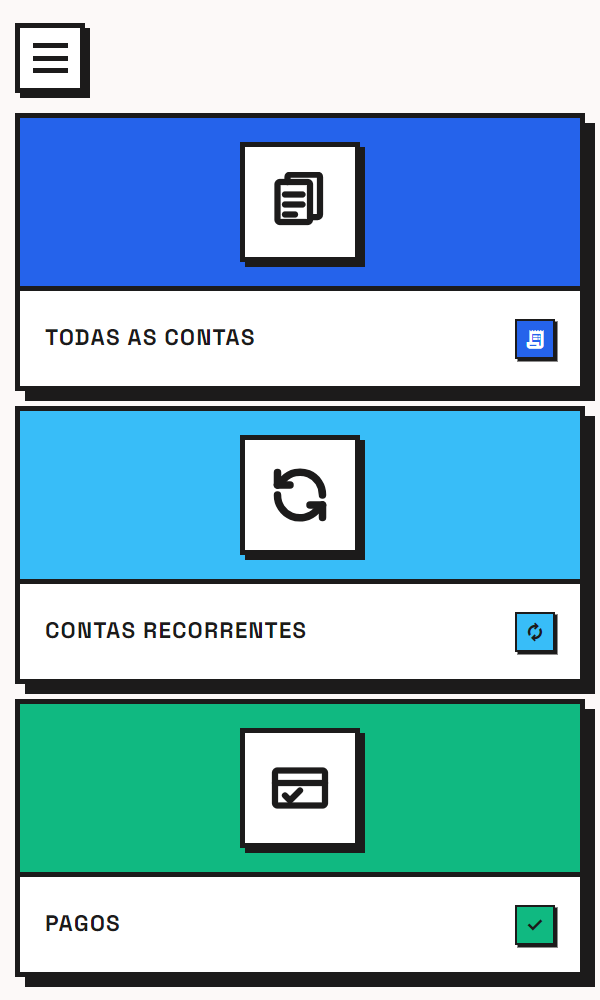
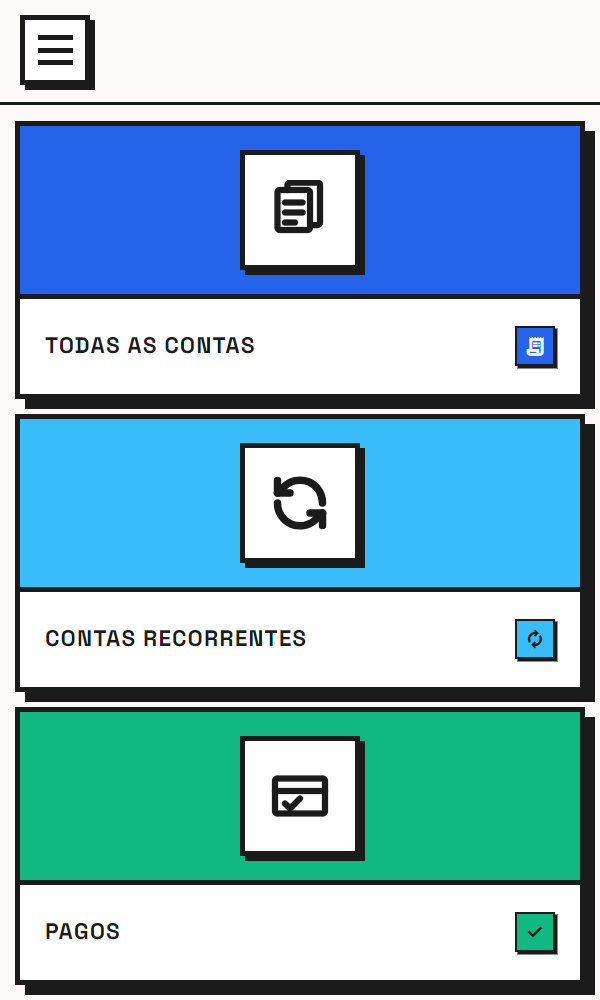
feat: hamburguer fixo no canto superior esquerdo em todas as telas
Abaixo de 1024px a navbar vira uma faixa fixa no topo (84px, cor do fundo,
linha preta embaixo) com o hamburguer sempre a 16px/12px do canto, mesmo
rolando a pagina; o conteudo comeca abaixo da faixa. Padrao de apps/sites e
previsivel para o futuro uso no celular. O calculo de alinhamento saiu do
navbar.ts; teste-hamburguer.js confere posicao, rolagem e conteudo abaixo da
faixa (17 telas x 10 larguras). Versao 1.3.2.

Testes: hamburguer 188/188, smoke 336, CRUD real 70, smoke-real, smoke-dev 83,
smoke-boot, persistencia 11, frontend, layout 54.

Changed region(s): [[0.0, 0.0, 1.0, 1.0], [0.06, 0.62, 0.51, 0.651]]

diff --git a/desktop/teste-hamburguer.js b/desktop/teste-hamburguer.js
@@ -1,7 +1,9 @@
-// Regressao do hamburguer (botao do menu em janela estreita): cada tela abre
-// LARGA e e estreitada passo a passo, como o usuario faz com o mouse. Em toda
-// largura o hamburguer precisa ficar na borda esquerda do conteudo (o painel ou
-// cartao mais a esquerda) e a pagina nao pode ficar mais larga que a janela.
+// Regressao do hamburguer (botao do menu em janela estreita). Decisao 2026-11-13:
+// ele fica SEMPRE no mesmo lugar (canto superior esquerdo), numa faixa fixa no topo.
+// Cada tela abre LARGA e e estreitada passo a passo, como o usuario faz com o mouse.
+// Em toda largura confere: botao a 16 px da esquerda e 12 px do topo; no mesmo
+// lugar depois de rolar a pagina; nenhum conteudo escondido atras da faixa; e
+// pagina sem ficar mais larga que a janela.
 // Uso: npx electron desktop/teste-hamburguer.js   (banco temporario)
 const { app } = require("electron");
 const path = require("path");
@@ -16,25 +18,39 @@ const esperar = (ms) => new Promise((r) => setTimeout(r, ms));
 const js = (c) => janela.webContents.executeJavaScript(c);
 const TELAS = ["controle", "cadastros", "mensagens", "recorrentes", "novo-cadastro", "form-banco", "form-pagador", "form-empresa",
   "todos-cadastros", "inserir-conta", "todas-as-contas", "pagos", "recorrentes-tabela", "form-recorrente", "todas-as-mensagens", "criar-mensagem", "graficos"];
-const LARGURAS = [1000, 940, 880, 820, 768, 700, 640, 600, 590, 560, 520, 480];
+const LARGURAS = [1000, 900, 820, 768, 700, 640, 600, 560, 520, 480];
+const ESQUERDA = 16;
+const TOPO = 12;
+
 const MEDIR = `(() => {
   const h = document.querySelector('.nav-hamburguer');
   if (!h || getComputedStyle(h).display === 'none') return JSON.stringify({ visivel: false });
+  const faixa = document.getElementById('nav-global').getBoundingClientRect();
+  const r = h.getBoundingClientRect();
+  // conteudo visivel mais alto da pagina (sem rolar): precisa comecar abaixo da faixa
+  let topoConteudo = Infinity;
   const raiz = document.getElementById('nav-global');
-  let menor = Infinity;
-  for (const e of raiz.nextElementSibling.querySelectorAll('*')) {
-    const r = e.getBoundingClientRect(); const cs = getComputedStyle(e);
-    if (r.width < 40 || r.height < 30 || r.left < 0) continue;
-    if (parseFloat(cs.borderLeftWidth) > 0 || cs.backgroundColor !== 'rgba(0, 0, 0, 0)') menor = Math.min(menor, r.left);
+  const area = raiz.parentElement === document.body ? raiz.nextElementSibling : raiz.parentElement;
+  for (const e of area.querySelectorAll('*')) {
+    if (raiz.contains(e)) continue;
+    const b = e.getBoundingClientRect();
+    if (b.width > 0 && b.height > 0) topoConteudo = Math.min(topoConteudo, b.top);
   }
-  return JSON.stringify({ visivel: true, ham: Math.round(h.getBoundingClientRect().left), conteudo: Number.isFinite(menor) ? Math.round(menor) : null,
-    rolagemH: document.documentElement.scrollWidth - innerWidth });
+  return JSON.stringify({ visivel: true, esquerda: Math.round(r.left), topo: Math.round(r.top),
+    faixaFim: Math.round(faixa.bottom), faixaLargura: Math.round(faixa.width), janela: innerWidth,
+    topoConteudo: Math.round(topoConteudo), rolagemH: document.documentElement.scrollWidth - innerWidth });
 })()`;
+
 (async () => {
   while (!janela) await esperar(100);
   for (let i = 0; i < 200 && !(await js("document.body?.dataset.tela === 'menu'").catch(() => false)); i++) await esperar(150);
   let ok = 0;
   let total = 0;
+  const conferir = (nome, certo, detalhe) => {
+    total++;
+    if (certo) ok++;
+    console.log(`${certo ? "[OK]    " : "[FALHA] "} ${nome}${certo ? "" : ` — ${detalhe}`}`);
+  };
   for (const tela of TELAS) {
     janela.setContentSize(1400, 850);
     await esperar(300);
@@ -42,16 +58,25 @@ const MEDIR = `(() => {
     for (let i = 0; i < 60 && !(await js(`document.body?.dataset.tela === '${tela}'`).catch(() => false)); i++) await esperar(150);
     await esperar(600);
     for (const w of LARGURAS) {
-      janela.setContentSize(w, 850);
-      await esperar(500);
+      janela.setContentSize(w, 700);
+      await esperar(400);
       const m = JSON.parse(await js(MEDIR));
-      const certo = !m.visivel || (m.conteudo !== null && Math.abs(m.ham - m.conteudo) <= 2 && m.rolagemH <= 0);
-      total++;
-      if (certo) ok++;
-      console.log(`${certo ? "[OK]    " : "[FALHA] "} ${w}px ${tela.padEnd(20)} ${certo ? "" : JSON.stringify(m)}`);
+      conferir(`${tela} ${w}px: botao no canto (16, 12), faixa inteira, conteudo abaixo da faixa`,
+        m.visivel && Math.abs(m.esquerda - ESQUERDA) <= 1 && Math.abs(m.topo - TOPO) <= 1 && m.faixaLargura === m.janela
+          && m.topoConteudo >= m.faixaFim && m.rolagemH <= 0, JSON.stringify(m));
     }
+    // rolando ate o fim, o botao continua no mesmo lugar
+    await js("(document.scrollingElement || document.documentElement).scrollTop = 99999; document.body.scrollTop = 99999; true");
+    await esperar(300);
+    const rolado = JSON.parse(await js(MEDIR));
+    conferir(`${tela}: botao parado no canto mesmo rolando a pagina`,
+      rolado.visivel && Math.abs(rolado.esquerda - ESQUERDA) <= 1 && Math.abs(rolado.topo - TOPO) <= 1, JSON.stringify(rolado));
   }
-  console.log(`
-=== RESULTADO HAMBURGUER: ${ok}/${total} verificacoes passaram ===`);
+  // 1024 px ou mais: barra completa, sem hamburguer
+  janela.setContentSize(1280, 800);
+  await esperar(500);
+  const largo = JSON.parse(await js(MEDIR));
+  conferir("1280px: barra completa (sem hamburguer)", largo.visivel === false, JSON.stringify(largo));
+  console.log(`\n=== RESULTADO HAMBURGUER: ${ok}/${total} verificacoes passaram ===`);
   app.exit(ok === total ? 0 : 1);
 })();

diff --git a/frontend/ts/navbar.ts b/frontend/ts/navbar.ts
@@ -142,33 +142,6 @@ function menuEstaAberto(raiz: HTMLElement): boolean {
   return raiz.dataset.menuAberto === "true";
 }
 
-/**
- * Hamburguer na MESMA margem esquerda do conteudo: alinha com a borda MAIS A
- * ESQUERDA entre os elementos com borda da tela (painel, formulario ou cartao).
- * Antes usava o primeiro elemento com borda, e nos submenus (cartoes montados
- * depois da navbar) pegava o quadradinho do icone, centralizado.
- */
-function alinharHamburguer(raiz: HTMLElement): void {
-  const conteudo = raiz.nextElementSibling as HTMLElement | null;
-  const hamburguer = raiz.querySelector<HTMLElement>(".nav-hamburguer");
-  if (!conteudo || !hamburguer || getComputedStyle(hamburguer).display === "none") return;
-  let menor = Infinity;
-  const candidatos = conteudo.querySelectorAll<HTMLElement>("*");
-  for (let i = 0; i < candidatos.length && i < 1500; i++) {
-    const e = candidatos[i];
-    const r = e.getBoundingClientRect();
-    if (r.width <= 0 || r.height <= 0 || r.left < 0 || r.left >= menor) continue;
-    const cs = getComputedStyle(e);
-    // "> 0": com zoom da janela, 2px de borda podem ser reportados como 1.x px
-    if (parseFloat(cs.borderLeftWidth) > 0 && cs.position !== "fixed") menor = r.left;
-  }
-  if (!Number.isFinite(menor)) {
-    menor = conteudo.getBoundingClientRect().left + parseFloat(getComputedStyle(conteudo).paddingLeft);
-  }
-  const esquerda = menor - raiz.getBoundingClientRect().left;
-  raiz.style.setProperty("--nav-esquerda", `${Math.max(0, Math.round(esquerda))}px`);
-}
-
 /** Menu lateral colado logo ABAIXO do botao (o botao fica por cima, encostado no topo do menu). */
 function posicionarPainel(raiz: HTMLElement): void {
   const hamburguer = raiz.querySelector<HTMLElement>(".nav-hamburguer");
@@ -243,37 +216,12 @@ ${ITENS_NAV.filter((item) => item.noPainel)
     acionar(item);
   });
 
-  const realinhar = (): void => {
-    alinharHamburguer(raiz);
+  // o hamburguer fica fixo no canto (CSS); so o menu aberto acompanha a janela
+  const reposicionar = (): void => {
     if (menuEstaAberto(raiz)) posicionarPainel(raiz);
   };
-  // recalcula no proximo quadro (o layout ja assentado) quando a janela muda OU
-  // quando o conteudo muda de tamanho (ex.: cartoes dos submenus montados depois)
-  let agendado = false;
-  let assentar: number | undefined;
-  const agendarRealinhar = (): void => {
-    // de novo 250 ms depois da ultima mudanca: durante a montagem/redimensionamento
-    // o layout passa por estados intermediarios e o calculo podia ficar no meio
-    window.clearTimeout(assentar);
-    assentar = window.setTimeout(realinhar, 250);
-    if (agendado) return;
-    agendado = true;
-    requestAnimationFrame(() => {
-      agendado = false;
-      realinhar();
-    });
-  };
-  agendarRealinhar();
-  window.addEventListener("resize", agendarRealinhar);
-  const conteudoTela = raiz.nextElementSibling;
-  if (conteudoTela && typeof ResizeObserver !== "undefined") {
-    new ResizeObserver(agendarRealinhar).observe(conteudoTela);
-    new MutationObserver(agendarRealinhar).observe(conteudoTela, { childList: true, subtree: true });
-  }
-  window.addEventListener("scroll", () => {
-    if (menuEstaAberto(raiz)) posicionarPainel(raiz);
-  }, { passive: true });
-  void document.fonts?.ready.then(realinhar);
+  window.addEventListener("resize", reposicionar);
+  window.addEventListener("scroll", reposicionar, { passive: true });
 
   raiz.querySelector(".nav-hamburguer")?.addEventListener("click", () => {
     definirMenu(raiz, !menuEstaAberto(raiz));

diff --git a/frontend/css/tailwind.input.css b/frontend/css/tailwind.input.css
@@ -472,10 +472,31 @@
   .nav-barra { display: flex; }
 }
 
+/* Janela estreita (e futuro celular): o hamburguer fica SEMPRE no mesmo lugar,
+   canto superior esquerdo, numa faixa fixa no topo (padrao de apps/sites).
+   A faixa continua visivel ao rolar e o conteudo passa por baixo dela (e nao
+   por baixo do botao). O conteudo comeca logo abaixo da faixa. */
 @media (max-width: 1023px) {
-  /* mesma margem esquerda do conteudo (calculada em navbar.ts) */
-  .nav-hamburguer { display: inline-flex; margin-left: var(--nav-esquerda, 1rem); }
+  .nav-hamburguer { display: inline-flex; }
+  #nav-global {
+    position: fixed !important;
+    top: 0;
+    left: 0;
+    right: 0;
+    z-index: 45;
+    height: var(--altura-faixa-nav);
+    margin: 0 !important;
+    padding: 12px 16px;
+    box-sizing: border-box;
+    background: #fcf9f8;
+    border-bottom: 3px solid #1c1b1b;
+  }
+  body:has(#nav-global) {
+    padding-top: calc(var(--altura-faixa-nav) + clamp(0.75rem, 2.5vmin, 1.25rem)) !important;
+  }
 }
+
+:root { --altura-faixa-nav: 84px; }
 
 @media (prefers-reduced-motion: reduce) {
   .nav-veu,

diff --git a/docs/estado-atual.md b/docs/estado-atual.md
@@ -8,10 +8,10 @@
 - Fases 1 a 5 concluídas. Entrega de 2026-11-11 com 15 ajustes de uso (ver `decisoes.md` › "Ajustes de uso"): chave pela fechadura, bordas simples, colunas recolhíveis, área de edição única, impressão formal com a nota, nota obrigatória (ou "sem nota"), navbar estreita e tabelas do legado.
 - 2ª rodada (2026-11-12): mensagens voltam a salvar no banco da loja (migração v15), área de edição única em todas as telas, pagador em caixa de seleção, Mensagens do dia com EXPANDIR/VER NO CONTROLE.
 - Limpeza trimestral das notas antigas e backup em planilha no Google Drive a cada abertura.
-- Versão **1.3.1**: barra com INSERIR CONTA e MENU PRINCIPAL vermelho; hambúrguer alinhado em todas as telas. Desde a 1.3.0: abre com o Windows e abre o Chrome no e-mail (`configuracoes.json`). As atualizações chegam pelo Drive: `npm run instalador` e depois `npm run publicar -- "novidades"` (passo a passo em `docs/instalacao.md`).
+- Versão **1.3.2**: barra com INSERIR CONTA e MENU PRINCIPAL vermelho; em janela estreita, hambúrguer fixo no canto superior esquerdo (faixa no topo), igual em todas as telas. Desde a 1.3.0: abre com o Windows e abre o Chrome no e-mail (`configuracoes.json`). As atualizações chegam pelo Drive: `npm run instalador` e depois `npm run publicar -- "novidades"` (passo a passo em `docs/instalacao.md`).
 - Emblema próprio (cadeado) na janela, barra de tarefas, `.exe` e instalador; `release/` só com o instalador atual; projeto limpo (ver `decisoes.md`).
 - Esquema SQLite **v16**. Nova dependência de execução: `pdf-lib` 1.17.1, que junta a nota em PDF na impressão.
-- **Testes (2026-11-12), todos verdes:** JUnit 139 · máscaras 65 · filtros 22 · automações 24 · smoke 336 · hambúrguer 204 · smoke-boot 2 ciclos · persistência 11 · smoke-real 2 ciclos · smoke-dev 83 · CRUD real 70 · layout 54 medições (rodada final sem falhas). Smoke e smoke-boot tiveram falhas de tempo intermitentes (animação/carregamento) que passaram ao repetir.
+- **Testes (2026-11-12), todos verdes:** JUnit 139 · máscaras 65 · filtros 22 · automações 24 · smoke 336 · hambúrguer 188 · smoke-boot 2 ciclos · persistência 11 · smoke-real 2 ciclos · smoke-dev 83 · CRUD real 70 · layout 54 medições (rodada final sem falhas). Smoke e smoke-boot tiveram falhas de tempo intermitentes (animação/carregamento) que passaram ao repetir.
 
 ## Próximos passos
 - Importador da planilha legada para `legado_*` e, depois, para `contas_a_pagar`/`boletos_recorrentes`/`avisos`, quando o usuário enviar os dados.
@@ -26,5 +26,5 @@
 
 ## Pendências do usuário
 - **Ligar os Drives (antes da 1ª atualização):** na conta da firma, criar em Meu Drive a pasta `Chaveiro Universal - Atualizacoes` e compartilhar como Editor com o e-mail do desenvolvedor. No PC de desenvolvimento, usar "Adicionar atalho ao Meu Drive". Na loja, marcar a pasta como "Disponível off-line" (passo a passo em `docs/instalacao.md`).
-- Instalar `release/Contas a Pagar - Chaveiro Universal - Instalador 1.3.1.exe` no computador da loja, por cima da versão anterior, validar na resolução real e conferir se aparece `Meu Drive\Chaveiro Universal - Backup` com a planilha do dia.
+- Instalar `release/Contas a Pagar - Chaveiro Universal - Instalador 1.3.2.exe` no computador da loja, por cima da versão anterior, validar na resolução real e conferir se aparece `Meu Drive\Chaveiro Universal - Backup` com a planilha do dia.
 - Revogar a chave de API da Xiaomi em `chat_mimo.ps1` (fora do Git).

diff --git a/docs/decisoes.md b/docs/decisoes.md
@@ -133,3 +133,4 @@ A ordem de autoridade das fontes é: **design** = Stitch (`docs/stitch/`), **req
 
 - **2026-11-13 — Barra e menu do hambúrguer ganham INSERIR CONTA (amarelo, a cor dele no Menu); MENU PRINCIPAL passa a vermelho `#FF3B30` (substitui o amarelo da decisão de 2026-11-08).** Ao passar o mouse no amarelo, o ícone fica preto, não branco. Com 7 botões, a barra aparece a partir de **1024 px** de janela (antes 851) e usa botões compactos até 1279 px. Abaixo de 1024 px entra o hambúrguer.
 - **2026-11-13 — Hambúrguer alinhado com a borda MAIS À ESQUERDA do conteúdo (antes: o primeiro elemento com borda).** O cálculo é refeito quando a janela ou o conteúdo muda (ResizeObserver e MutationObserver) e de novo 250 ms depois, porque estados intermediários deixavam o botão deslocado. O teste `desktop/teste-hamburguer.js` abre cada tela larga e a estreita passo a passo, do jeito que o usuário faz (17 telas × 12 larguras).
+- **2026-11-13 — Hambúrguer FIXO no canto superior esquerdo, numa faixa fixa no topo (substitui "alinhado com o conteúdo", decidido no mesmo dia).** Abaixo de 1024 px, `#nav-global` vira uma faixa `position: fixed` de 84 px, da cor do fundo e com linha preta embaixo. O botão fica sempre a 16 px da esquerda e 12 px do topo, em todas as telas, mesmo rolando a página, e o conteúdo começa logo abaixo da faixa. Motivos: é o padrão de apps e sites, o menu abre da esquerda e o lugar fica previsível para o futuro uso no celular. O cálculo de alinhamento saiu do `navbar.ts`. `desktop/teste-hamburguer.js` confere posição, rolagem, conteúdo abaixo da faixa e ausência de rolagem lateral (17 telas × 10 larguras).

diff --git a/AGENTS.md b/AGENTS.md
@@ -55,7 +55,7 @@ Antes de submeter qualquer entrega ou marcar uma tarefa como concluída:
 4. **Teste de Persistência:** Validar ciclo de cold start com `desktop/teste-persistencia.js`.
 5. **Máscaras, filtros e automações:** `npm run test:frontend` (`desktop/teste-mascaras.js` + `desktop/teste-filtros.js` + `desktop/teste-automacoes.js`). Rode sempre que tocar em `mascaras.ts`, `filtros.ts`, campos com máscara ou `desktop/automacoes.js`.
 6. **CRUD real (antes de cada entrega):** `npx electron desktop/teste-crud-real.js`. Usa clique e digitação reais e faz criar, ler, editar e excluir em todas as telas, com banco e Downloads temporários. Não use o computador enquanto ele roda e rode um teste de Electron por vez.
-7. **Hambúrguer (quando mexer em telas ou na navbar):** `npx electron desktop/teste-hamburguer.js`. Confere o alinhamento do botão do menu estreitando cada tela.
+7. **Hambúrguer (quando mexer em telas ou na navbar):** `npx electron desktop/teste-hamburguer.js`. Confere que o botão do menu fica fixo no canto (16 px, 12 px) estreitando e rolando cada tela.
 8. **Layout (quando mexer em telas):** `npx electron desktop/medir-layout.js --capturas` mede rolagem e centralização das 18 telas em 1366×768, 1536×864 e 1920×1080 (capturas em `%TEMP%\findesk-layout`).
 
 ---

diff --git a/CLAUDE.md b/CLAUDE.md
@@ -34,7 +34,7 @@ npm run instalador                     # instalador Windows com Java embutido (v
 npm run publicar -- "novidades"        # põe o instalador na pasta de atualizações do Google Drive (a loja oferece ATUALIZAR)
 python instalador/gerar-icone.py       # regera o emblema (instalador/icone.ico + frontend/assets/icone.png)
 npx electron desktop/medir-layout.js --capturas   # rolagem/centralização das 18 telas em 3 resoluções
-npx electron desktop/teste-hamburguer.js          # hambúrguer alinhado ao estreitar cada tela (17 telas × 12 larguras)
+npx electron desktop/teste-hamburguer.js          # hambúrguer fixo no canto ao estreitar/rolar cada tela (17 telas × 10 larguras)
 ```
 
 Os smokes e o teste de persistência exigem o jar já compilado e o frontend já buildado. smoke-real/smoke-dev movem mouse/teclado de verdade — não interagir com a máquina enquanto rodam.
